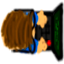
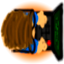
added graphics for towers, removed redundant graphics(rotated)

Changed region(s): [[0.0938, 0.75, 0.8438, 1.0], [0.1875, 0.0312, 0.8438, 0.2188], [0.5, 0.5312, 0.5625, 0.625]]

diff --git a/src/square.cpp b/src/square.cpp
@@ -10,7 +10,9 @@ Square::Square(int x, int y, QWidget *parent)
     : QLabel(parent), x_(x), y_(y)
 {
     // set randomized tile picture
-    tilePics << QPixmap(":/images/Tile.png") << QPixmap(":/images/Tile2.png") << QPixmap(":/images/Tile3.png") << QPixmap(":/images/Tile4.png");
+    QList<QPixmap> tilePics;
+    tilePics << QPixmap(":/images/Tile.png") << rotate(90, QPixmap(":/images/Tile.png"))
+             << rotate(180, QPixmap(":/images/Tile.png")) << rotate(270, QPixmap(":/images/Tile.png"));
     int r = rand() % 4;
     setPixmap(tilePics[r]);
 }
@@ -42,4 +44,11 @@ void Square::fire(QPointF targetPos){
 
 
 
+}
+
+
+QPixmap Square::rotate(int angle, QPixmap pixmap){
+    QTransform rotation;
+    rotation.rotate(angle);
+    return pixmap.transformed(rotation);
 }

diff --git a/src/square.h b/src/square.h
@@ -9,8 +9,9 @@ public:
      Square(int x, int y, QWidget *parent = nullptr);
      void mousePressEvent(QMouseEvent* event);
      void fire(QPointF target);
+
 private:
-     QList<QPixmap> tilePics;
+     QPixmap rotate(int angle, QPixmap pixmap);
      int x_;
      int y_;
 signals:
